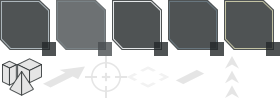
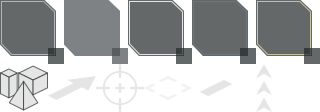
Make obj action buttons bigger

diff --git a/src/Widgets/ObjectActionButton.cpp b/src/Widgets/ObjectActionButton.cpp
@@ -193,8 +193,8 @@ void ObjectActionButton::HandlePositionChanged()
    const int y = GetScreenY();
 
    // ICON
-   const int iconBoxW = 50;
-   const int iconBoxH = 50;
+   const int iconBoxW = 56;
+   const int iconBoxH = 56;
 
    const int iconX = x + (iconBoxW - mIcon->GetWidth()) * 0.5f;
    const int iconY = y + (iconBoxH - mIcon->GetHeight()) * 0.5f;
@@ -202,11 +202,11 @@ void ObjectActionButton::HandlePositionChanged()
    mIcon->SetPosition(iconX, iconY);
 
    // SHORTCUT
-   const int shortcutX0 = 42;
-   const int shortcutY0 = 42;
+   const int shortcutX0 = 48;
+   const int shortcutY0 = 48;
 
-   const int shortcutBoxW = 14;
-   const int shortcutBoxH = 14;
+   const int shortcutBoxW = 16;
+   const int shortcutBoxH = 16;
 
    const int shortcutX = x + shortcutX0 + (shortcutBoxW - mShortcut->GetWidth()) * 0.5f;
    const int shortcutY = y + shortcutY0 + (shortcutBoxH - mShortcut->GetHeight()) * 0.5f;

diff --git a/src/Screens/ScreenGame.cpp b/src/Screens/ScreenGame.cpp
@@ -378,8 +378,8 @@ void ScreenGame::InitSprites()
 
     // button bg
     indCols = 5;
-    indW = 56;
-    indH = 56;
+    indW = 64;
+    indH = 64;
 
     x = 0;
     y = 0;
@@ -394,8 +394,8 @@ void ScreenGame::InitSprites()
 
     // icons
     indCols = 6;
-    indW = 42;
-    indH = 42;
+    indW = 48;
+    indH = 48;
 
     x = 0;
 
